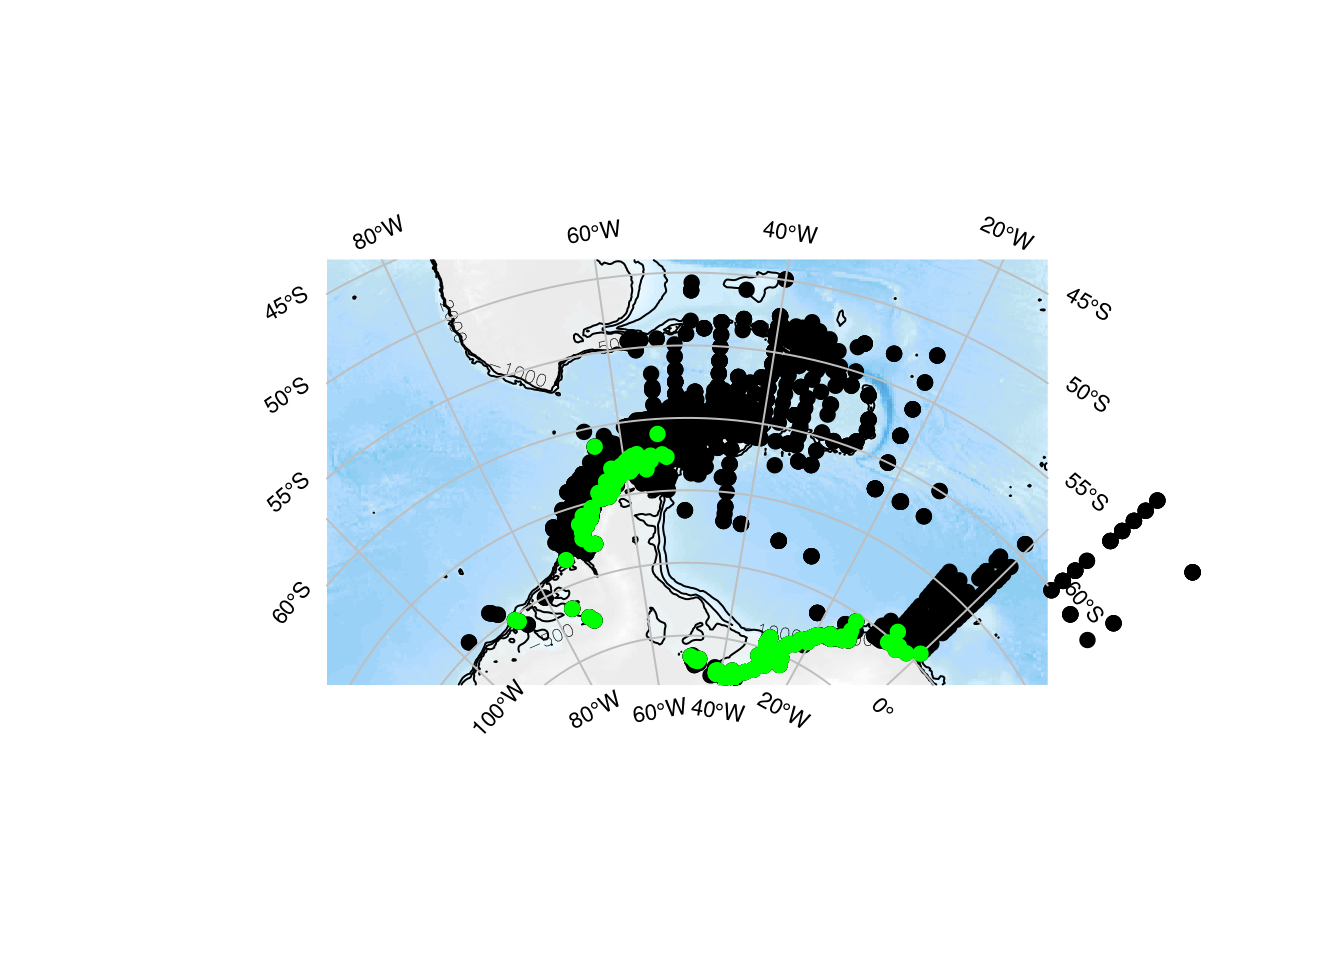
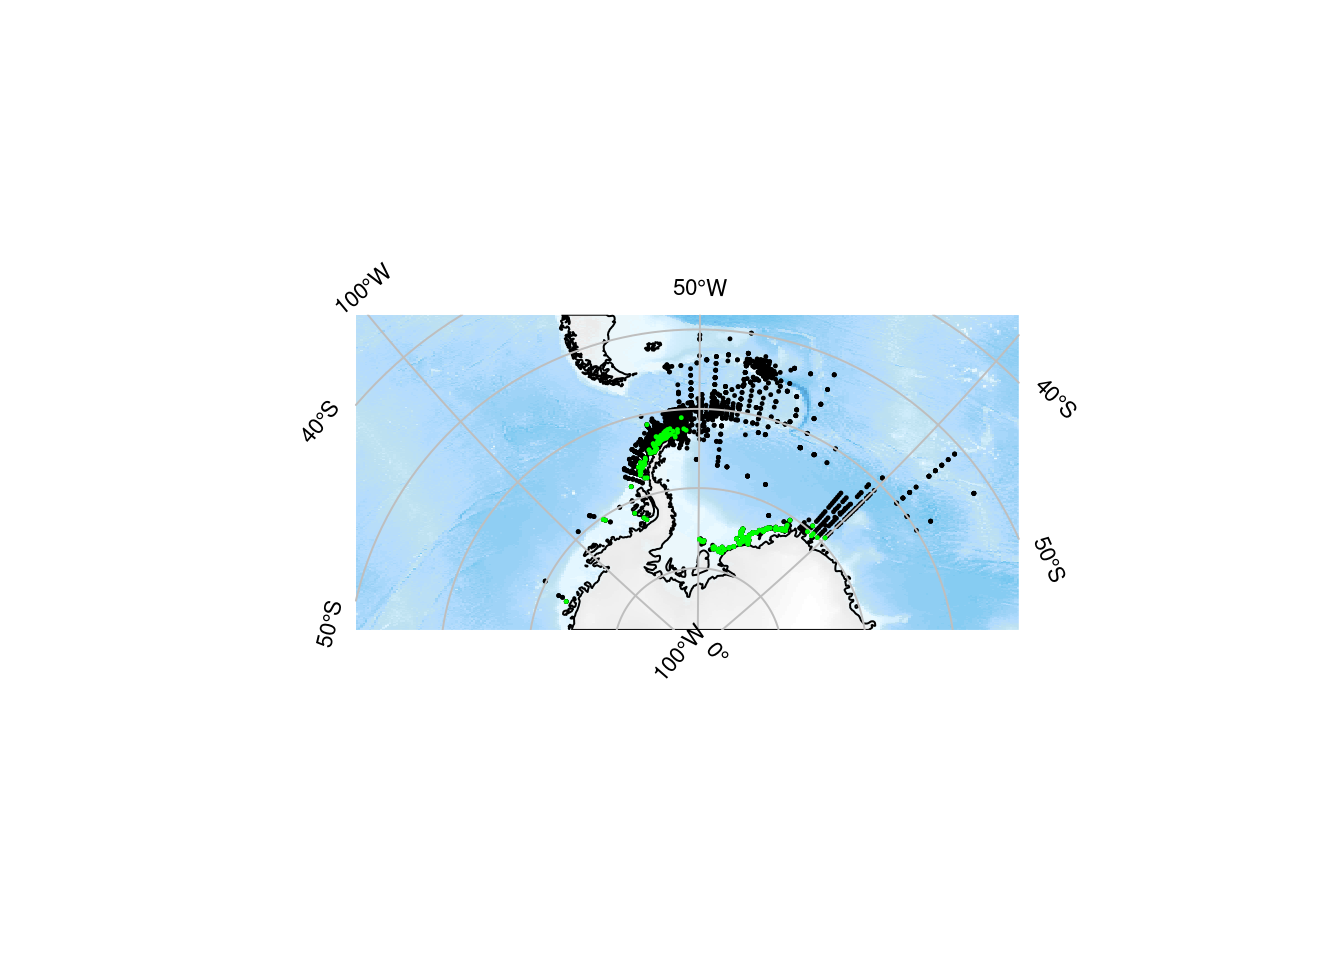
tweaks for recent SOmap updates

Changed region(s): [[0.1875, 0.2188, 0.875, 0.75], [0.875, 0.5938, 0.9062, 0.625], [0.8125, 0.3125, 0.8438, 0.3438]]

diff --git a/docs/overview.html b/docs/overview.html
@@ -210,15 +210,17 @@ my_aphia_id &lt;-<span class="st"> </span>tax[[<span class="dv">1</span>]]<span 
 x &lt;-<span class="st"> </span><span class="kw">occurrence</span>(<span class="dt">datasetid =</span> <span class="st">&quot;cb16377b-56a8-4d95-802d-4eec02466773&quot;</span>)</code></pre>
 <p>Plot the complete distribution of samples in black, and <em>Euphausia crystallorophias</em> in green:</p>
 <pre class="sourceCode r"><code class="sourceCode r"><span class="kw">library</span>(SOmap)
-<span class="kw">SOauto_map</span>(x<span class="op">$</span>decimalLongitude, x<span class="op">$</span>decimalLatitude, <span class="dt">input_lines =</span> <span class="ot">FALSE</span>, <span class="dt">pcol =</span> <span class="st">&quot;black&quot;</span>)
+<span class="kw">SOauto_map</span>(x<span class="op">$</span>decimalLongitude, x<span class="op">$</span>decimalLatitude, <span class="dt">input_lines =</span> <span class="ot">FALSE</span>, <span class="dt">contours =</span> <span class="ot">FALSE</span>, 
+           <span class="dt">pcol =</span> <span class="st">&quot;black&quot;</span>, <span class="dt">pcex =</span> <span class="fl">0.2</span>)
 <span class="kw">with</span>(x <span class="op">%&gt;%</span><span class="st"> </span>dplyr<span class="op">::</span><span class="kw">filter</span>(aphiaID <span class="op">==</span><span class="st"> </span>my_aphia_id), 
-     <span class="kw">SOplot</span>(decimalLongitude, decimalLatitude, <span class="dt">pch =</span> <span class="dv">19</span>, <span class="dt">col =</span> <span class="st">&quot;green&quot;</span>))</code></pre>
+     <span class="kw">SOplot</span>(decimalLongitude, decimalLatitude, <span class="dt">pch =</span> <span class="dv">19</span>, <span class="dt">cex =</span> <span class="fl">0.2</span>, <span class="dt">col =</span> <span class="st">&quot;green&quot;</span>))</code></pre>
 <p><img src="_main_files/figure-html/map1-1.png" width="672" /></p>
 <p>Or as a polar stereo map:</p>
-<pre class="sourceCode r"><code class="sourceCode r"><span class="kw">SOmap</span>(<span class="dt">Trim =</span> <span class="kw">max</span>(x<span class="op">$</span>decimalLatitude))
-<span class="kw">SOplot</span>(x<span class="op">$</span>decimalLongitude, x<span class="op">$</span>decimalLatitude, <span class="dt">pch =</span> <span class="dv">19</span>, <span class="dt">col =</span> <span class="st">&quot;black&quot;</span>)
+<pre class="sourceCode r"><code class="sourceCode r">basemap &lt;-<span class="st"> </span><span class="kw">SOmap</span>(<span class="dt">Trim =</span> <span class="kw">ceiling</span>(<span class="kw">max</span>(x<span class="op">$</span>decimalLatitude))<span class="op">+</span><span class="dv">1</span>, <span class="dt">Bathleg =</span> <span class="ot">FALSE</span>)
+<span class="kw">plot</span>(basemap)
+<span class="kw">SOplot</span>(x<span class="op">$</span>decimalLongitude, x<span class="op">$</span>decimalLatitude, <span class="dt">pch =</span> <span class="dv">19</span>, <span class="dt">cex =</span> <span class="fl">0.2</span>, <span class="dt">col =</span> <span class="st">&quot;black&quot;</span>)
 <span class="kw">with</span>(x <span class="op">%&gt;%</span><span class="st"> </span>dplyr<span class="op">::</span><span class="kw">filter</span>(aphiaID <span class="op">==</span><span class="st"> </span>my_aphia_id), 
-     <span class="kw">SOplot</span>(decimalLongitude, decimalLatitude, <span class="dt">pch =</span> <span class="dv">19</span>, <span class="dt">col =</span> <span class="st">&quot;green&quot;</span>))</code></pre>
+     <span class="kw">SOplot</span>(decimalLongitude, decimalLatitude, <span class="dt">pch =</span> <span class="dv">19</span>, <span class="dt">cex =</span> <span class="fl">0.2</span>, <span class="dt">col =</span> <span class="st">&quot;green&quot;</span>))</code></pre>
 <p><img src="_main_files/figure-html/map2-1.png" width="672" /></p>
 <p>Reorganise data into presence/absence by sampling site:</p>
 <pre class="sourceCode r"><code class="sourceCode r">xfit &lt;-<span class="st"> </span>x <span class="op">%&gt;%</span><span class="st"> </span>dplyr<span class="op">::</span><span class="kw">rename</span>(<span class="dt">lon =</span> <span class="st">&quot;decimalLongitude&quot;</span>, <span class="dt">lat =</span> <span class="st">&quot;decimalLatitude&quot;</span>) <span class="op">%&gt;%</span>
@@ -237,17 +239,17 @@ data_source &lt;-<span class="st"> </span><span class="kw">sources_sdm</span>(<s
 <span class="co">## fetch the data</span>
 status &lt;-<span class="st"> </span><span class="kw">bb_get</span>(data_source, <span class="dt">local_file_root =</span> my_data_directory, <span class="dt">verbose =</span> <span class="ot">TRUE</span>)</code></pre>
 <pre><code>## 
-## Tue May 28 12:29:49 2019
+## Mon Jun  3 10:33:14 2019
 ## Synchronizing dataset: Southern Ocean marine environmental data
 ## Source URL https://data.aad.gov.au/eds/4742/download
 ## --------------------------------------------------------------------------------------------
 ## 
-##  this dataset path is: /tmp/RtmpFYFABG/data.aad.gov.au/eds/4742
+##  this dataset path is: /tmp/Rtmpn4UtxS/data.aad.gov.au/eds/4742
 ##  building file list ... done.
 ##  downloading file 1 of 1: https://data.aad.gov.au/eds/4742/download ...  file unchanged on server, not downloading.
-##   decompressing: /tmp/RtmpFYFABG/data.aad.gov.au/eds/4742/download.zip ... no new files to extract (not overwriting existing files) ... done.
+##   decompressing: /tmp/Rtmpn4UtxS/data.aad.gov.au/eds/4742/download.zip ... no new files to extract (not overwriting existing files) ... done.
 ## 
-## Tue May 28 12:29:51 2019 dataset synchronization complete: Southern Ocean marine environmental data</code></pre>
+## Mon Jun  3 10:33:15 2019 dataset synchronization complete: Southern Ocean marine environmental data</code></pre>
 <pre class="sourceCode r"><code class="sourceCode r">nc_files &lt;-<span class="st"> </span><span class="kw">Filter</span>(<span class="cf">function</span>(z) <span class="kw">grepl</span>(<span class="st">&quot;</span><span class="ch">\\</span><span class="st">.nc$&quot;</span>, z), status<span class="op">$</span>files[[<span class="dv">1</span>]]<span class="op">$</span>file)
 
 <span class="co">## create a raster stack of all layers</span>
@@ -321,10 +323,16 @@ xpred<span class="op">$</span>predicted &lt;-<span class="st"> </span><span clas
 
 <span class="co">## create raster</span>
 pr &lt;-<span class="st"> </span><span class="kw">rasterFromXYZ</span>(xpred[, <span class="kw">c</span>(<span class="st">&quot;lon&quot;</span>, <span class="st">&quot;lat&quot;</span>, <span class="st">&quot;predicted&quot;</span>)])
-<span class="kw">projection</span>(pr) &lt;-<span class="st"> &quot;+proj=longlat +datum=WGS84&quot;</span></code></pre>
+<span class="kw">projection</span>(pr) &lt;-<span class="st"> &quot;+proj=longlat +datum=WGS84&quot;</span>
+
+my_cmap &lt;-<span class="st"> </span><span class="kw">hcl.colors</span>(<span class="dv">21</span>, <span class="st">&quot;Geyser&quot;</span>)</code></pre>
 <p>Plot it:</p>
-<pre class="sourceCode r"><code class="sourceCode r"><span class="kw">SOmap</span>(<span class="dt">Trim =</span> <span class="kw">max</span>(x<span class="op">$</span>decimalLatitude))
-<span class="kw">SOplot</span>(pr)</code></pre>
+<pre class="sourceCode r"><code class="sourceCode r">p &lt;-<span class="st"> </span><span class="kw">SOauto_map</span>(<span class="dt">x =</span> pr, <span class="dt">contours =</span> <span class="ot">FALSE</span>, <span class="dt">bathy =</span> pr)
+p<span class="op">$</span>bathy_palette &lt;-<span class="st"> </span>my_cmap
+p</code></pre>
+<p><img src="_main_files/figure-html/predmap2-1.png" width="672" /></p>
+<pre class="sourceCode r"><code class="sourceCode r"><span class="kw">plot</span>(basemap)
+<span class="kw">SOplot</span>(pr, <span class="dt">col =</span> my_cmap)</code></pre>
 <p><img src="_main_files/figure-html/predmap-1.png" width="672" /></p>
 </div>
 <div id="other-bits-and-pieces" class="section level2">
@@ -333,7 +341,7 @@ pr &lt;-<span class="st"> </span><span class="kw">rasterFromXYZ</span>(xpred[, <
 <h3><span class="header-section-number">2.7.1</span> Place names</h3>
 <pre class="sourceCode r"><code class="sourceCode r"><span class="kw">library</span>(antanym)
 
-<span class="co">## get data</span>
+<span class="co">## get full SCAR gazetteer data</span>
 xn &lt;-<span class="st"> </span><span class="kw">an_read</span>(<span class="dt">cache =</span> <span class="st">&quot;session&quot;</span>, <span class="dt">sp =</span> <span class="ot">TRUE</span>)
 
 <span class="co">## reduce to one name per feature</span>
@@ -343,14 +351,14 @@ xn &lt;-<span class="st"> </span><span class="kw">an_preferred</span>(xn, <span 
 xns &lt;-<span class="st"> </span><span class="kw">an_suggest</span>(xn, <span class="dt">map_scale =</span> <span class="fl">20e6</span>, <span class="dt">map_extent =</span> <span class="kw">extent</span>(pr))
 
 <span class="co">## transform to our map projection, convert to data frame, take the top 10</span>
-xns &lt;-<span class="st"> </span><span class="kw">as_tibble</span>(<span class="kw">SOproj</span>(xns)) <span class="op">%&gt;%</span><span class="st"> </span><span class="kw">head</span>(<span class="dv">10</span>)</code></pre>
+xns &lt;-<span class="st"> </span><span class="kw">as_tibble</span>(<span class="kw">SOproj</span>(xns, <span class="dt">target =</span> basemap<span class="op">$</span>projection)) <span class="op">%&gt;%</span><span class="st"> </span><span class="kw">head</span>(<span class="dv">10</span>)</code></pre>
 <p>Add them to the map:</p>
-<pre class="sourceCode r"><code class="sourceCode r"><span class="kw">SOmap</span>(<span class="dt">Trim =</span> <span class="kw">max</span>(x<span class="op">$</span>decimalLatitude))
-<span class="kw">SOplot</span>(pr)
-<span class="kw">with</span>(xns, <span class="kw">points</span>(<span class="dt">x =</span> longitude, <span class="dt">y =</span> latitude, <span class="dt">pch =</span> <span class="dv">16</span>))
+<pre class="sourceCode r"><code class="sourceCode r"><span class="kw">plot</span>(basemap)
+<span class="kw">SOplot</span>(pr, <span class="dt">col =</span> my_cmap)
+<span class="kw">with</span>(xns, <span class="kw">points</span>(<span class="dt">x =</span> longitude, <span class="dt">y =</span> latitude, <span class="dt">pch =</span> <span class="dv">16</span>, <span class="dt">cex =</span> <span class="fl">0.4</span>))
 <span class="kw">with</span>(xns, <span class="kw">text</span>(<span class="dt">x =</span> longitude, <span class="dt">y =</span> latitude, <span class="dt">labels =</span> place_name, 
                <span class="dt">cex =</span> <span class="fl">0.75</span>, <span class="dt">pos =</span> <span class="dv">2</span> <span class="op">+</span><span class="st"> </span><span class="dv">2</span><span class="op">*</span>(<span class="kw">seq_len</span>(<span class="kw">nrow</span>(xns)) <span class="op">%%</span><span class="st"> </span><span class="dv">2</span>)))</code></pre>
-<p><img src="_main_files/figure-html/predmap2-1.png" width="672" /></p>
+<p><img src="_main_files/figure-html/predmap3-1.png" width="672" /></p>
 
 </div>
 </div>
